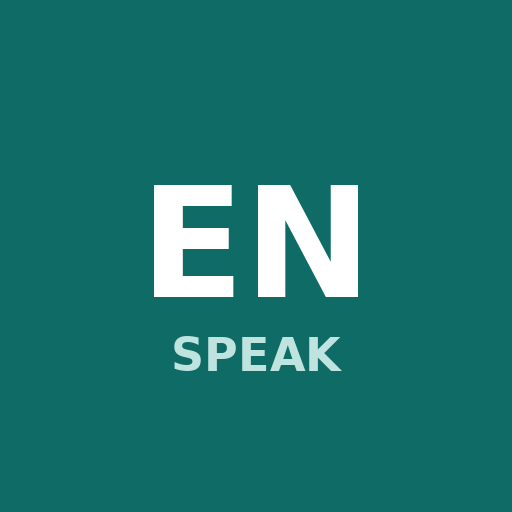
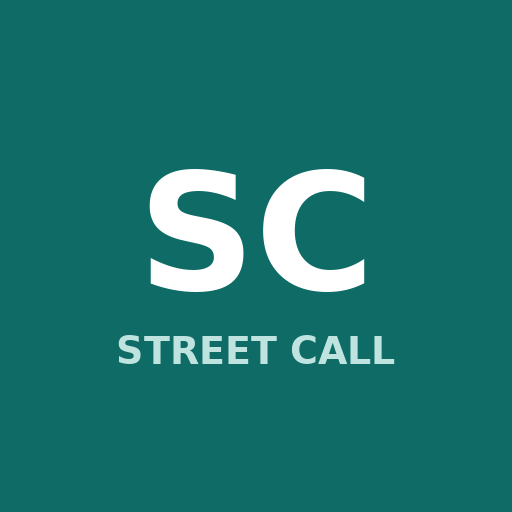
Rename the app to Street Call
Claude-Session: https://claude.ai/code/session_01HCWcYT628gAWSMHNN1eW7g

Changed region(s): [[0.2812, 0.3125, 0.7188, 0.5938], [0.2188, 0.6562, 0.7812, 0.75]]

diff --git a/index.html b/index.html
@@ -3,7 +3,7 @@
 <head>
 <meta charset="utf-8">
 <meta name="viewport" content="width=device-width,initial-scale=1,viewport-fit=cover">
-<title>안유화 말하기 연습실</title>
+<title>Street Call · 말하기 연습실</title>
 <link rel="manifest" href="manifest.webmanifest">
 <meta name="theme-color" content="#0E6B66">
 <link rel="icon" href="icon-192.png">
@@ -75,7 +75,7 @@ button:focus-visible{outline:3px solid var(--signal);outline-offset:2px}
 <body>
 <div class="wrap">
   <header>
-    <div class="label">An Yuhua · Speaking Room</div>
+    <div class="label">Street Call · 오늘 시장, 오늘 영어로 말한다</div>
     <h1>말하기 연습실</h1>
     <p class="note" id="topic">오늘의 이슈를 불러오는 중입니다.</p>
   </header>
@@ -148,7 +148,7 @@ button:focus-visible{outline:3px solid var(--signal);outline-offset:2px}
     <span class="pw" id="popW"></span><span class="ipa" id="popIpa"></span><span id="popKo"></span>
     <div class="row"><button class="btn" id="popSay">▶ 발음 듣기</button><button class="btn" id="popSlow">▶ 천천히</button></div>
   </div>
-  <p class="note">버전 2026-10-30h · English Desk(듣기·코칭·기록): <a href="https://claude.ai/artifact/MG9B2tnRbi4igqxSoiKKf5" target="_blank" rel="noopener">열기</a></p>
+  <p class="note">버전 2026-10-30i · English Desk(듣기·코칭·기록): <a href="https://claude.ai/artifact/MG9B2tnRbi4igqxSoiKKf5" target="_blank" rel="noopener">열기</a></p>
 </div>
 
 <script>
